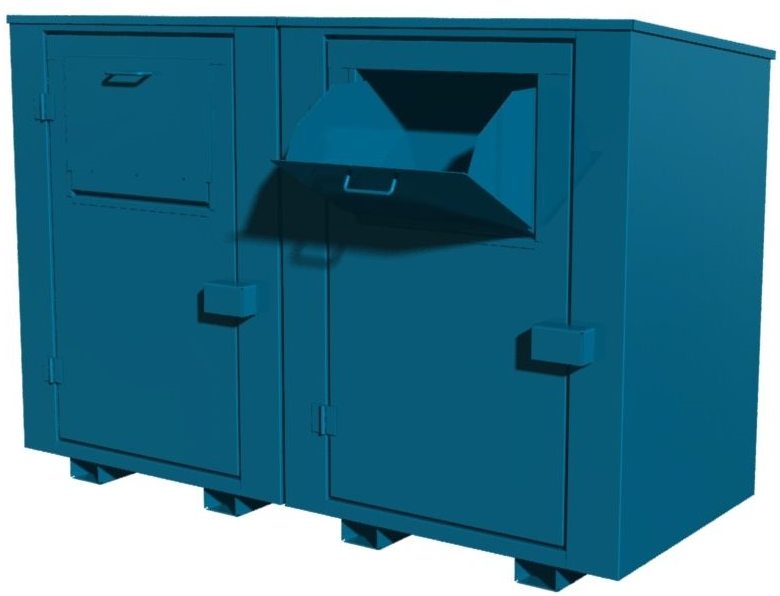
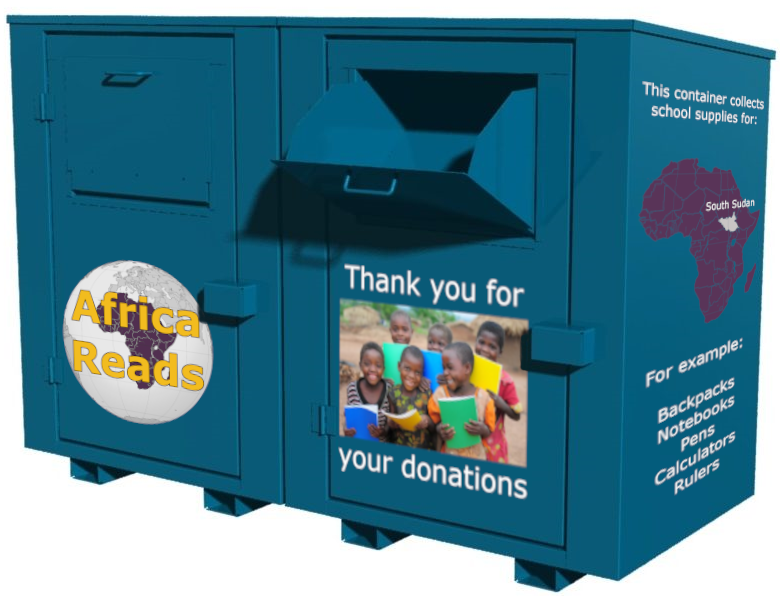
Index
New container image

diff --git a/index.html b/index.html
@@ -74,7 +74,7 @@
       </p>
       <p>At each of the drop off locations you will find a secured drop off box to donate your schools supplies. Every study semester we start a new campaign that focuses on a different region of Africa. </p><br>
 
-      <img src="pics/donationbox.png" class ="image" alt="Donation Box">
+      <img src="pics/donationbox.png" class ="image" alt="Donation Box" width="550px">
 
 
       <p>The container will be marked with stickers explaining where the donated supplies will go and how they will be used.
